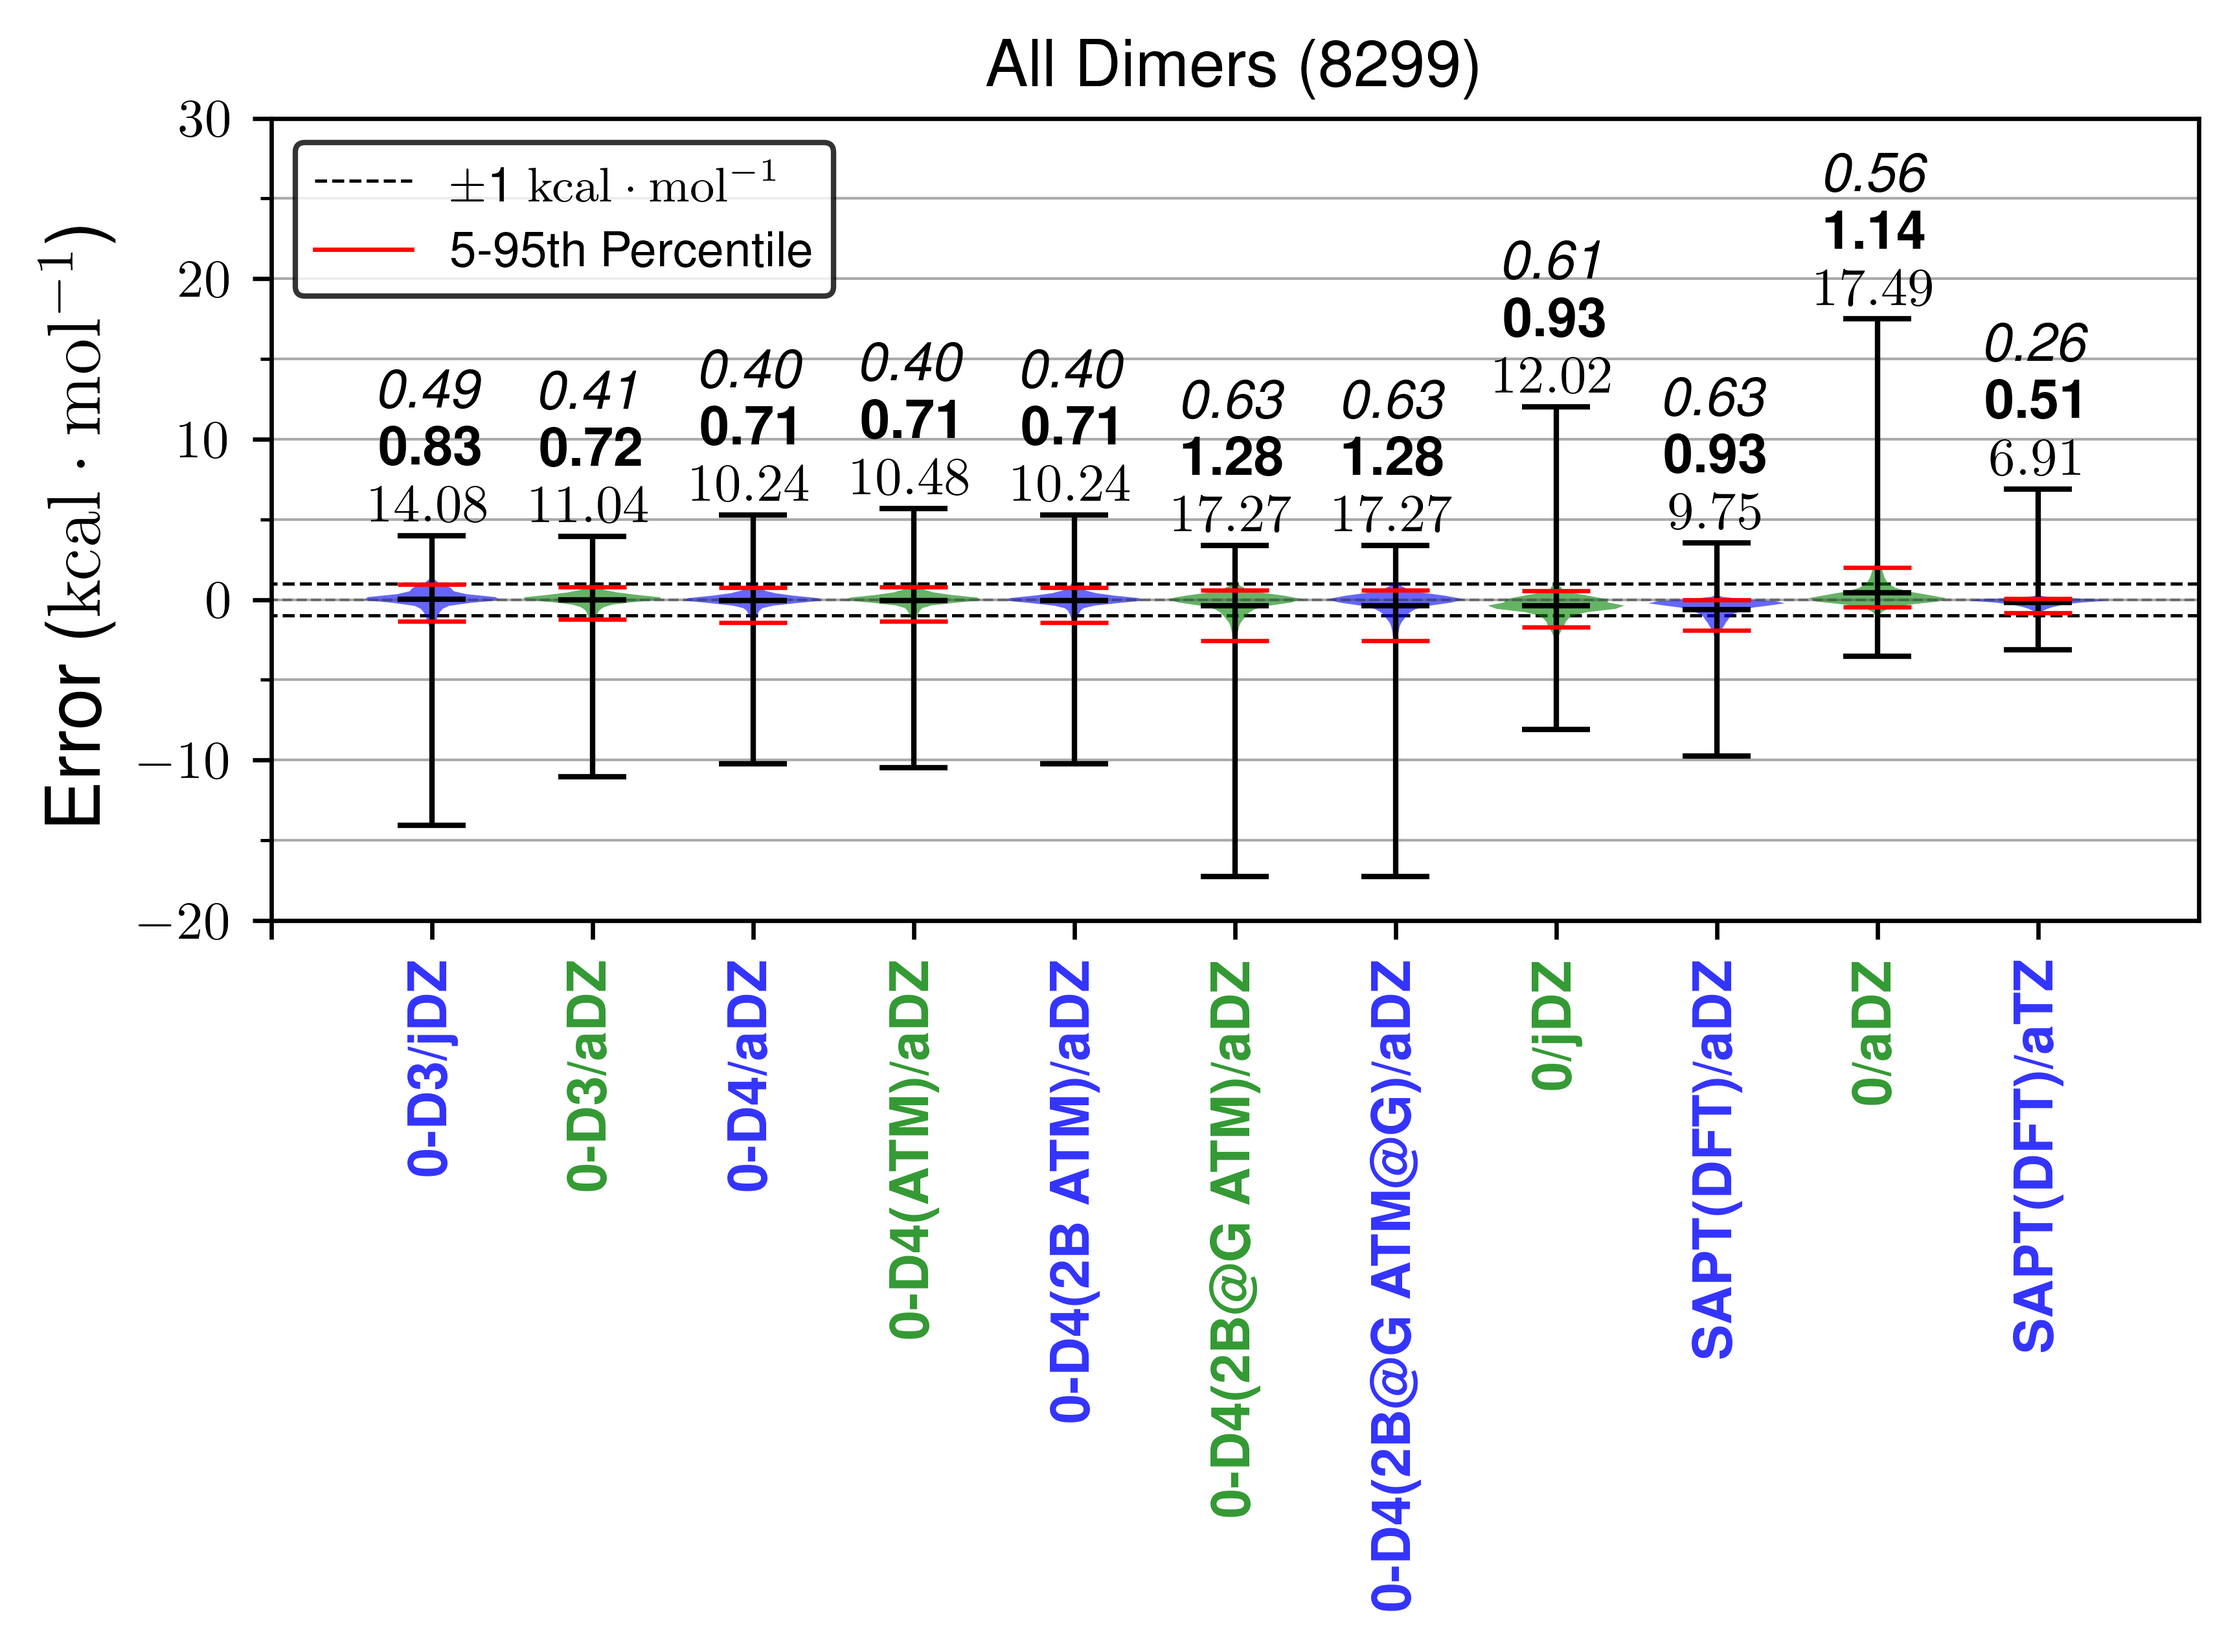
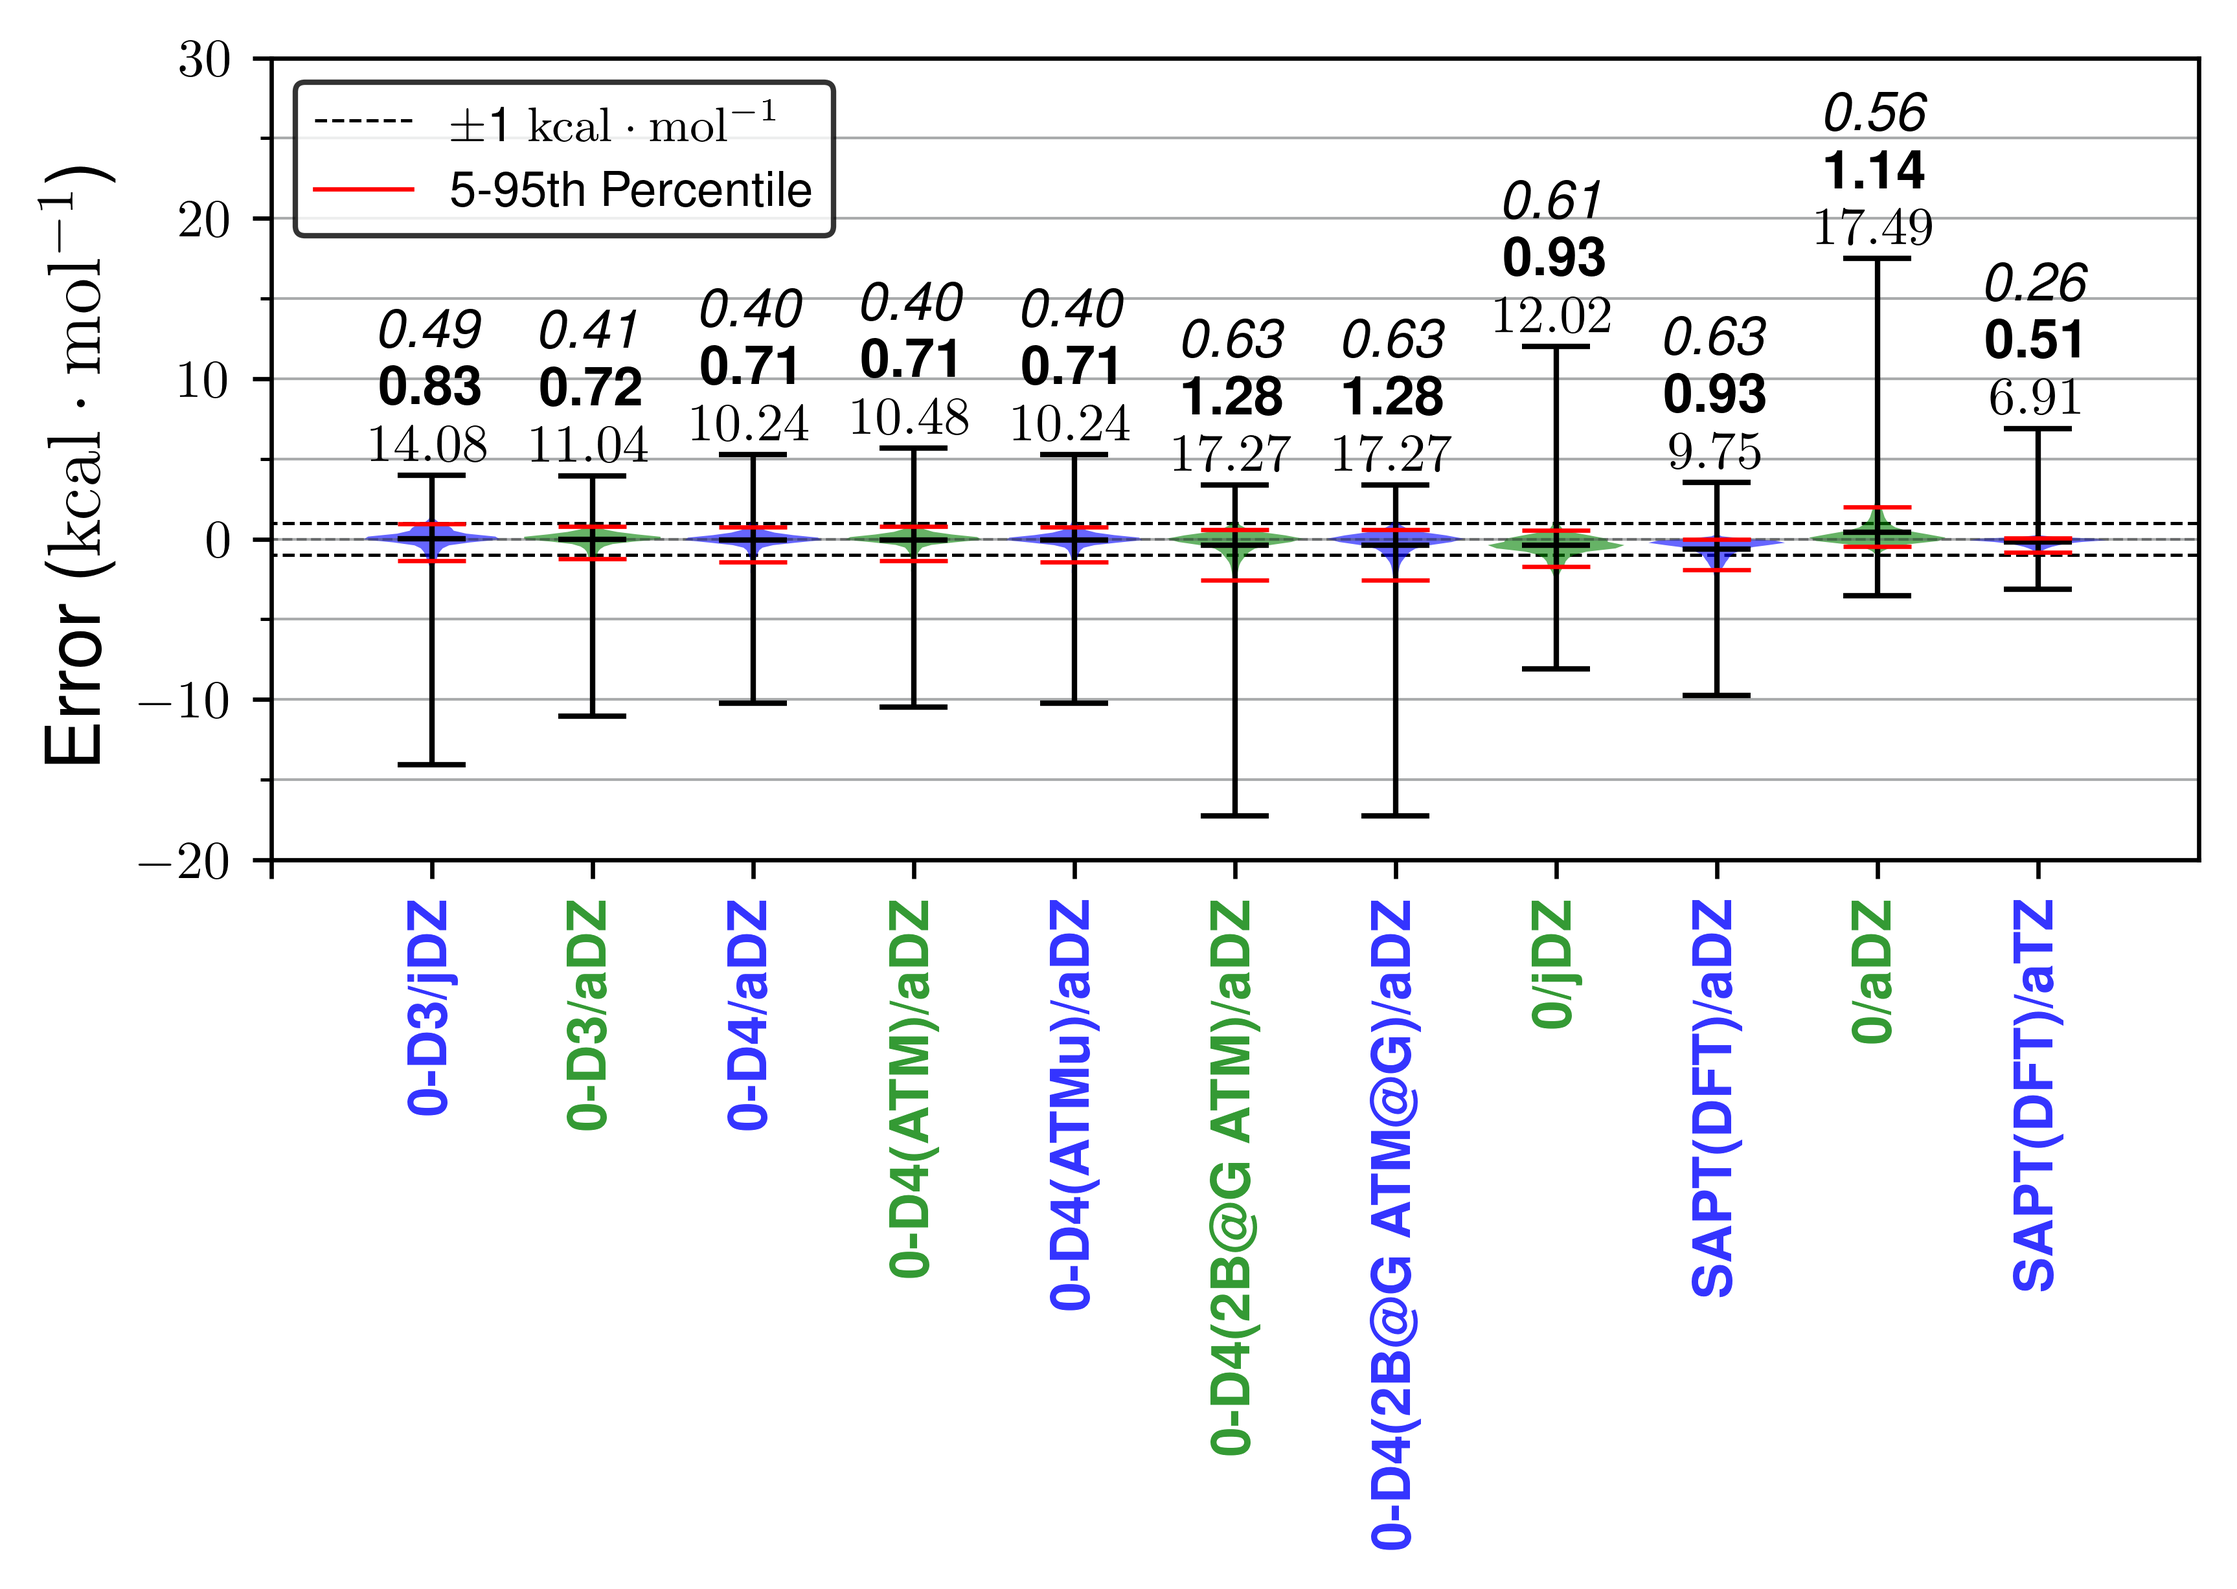
plotting updates

diff --git a/src/plotting.py b/src/plotting.py
@@ -719,20 +719,20 @@ def plotting_setup(
     selected = selected.split("/")[-1].split(".")[0]
     df_out = f"plots/{selected}.pkl"
     if build_df:
-        # df = compute_D3_D4_values_for_params_for_plotting(df, "adz", compute_d3)
-        # df = compute_D3_D4_values_for_params_for_plotting(df, "jdz", compute_d3)
-        # df = compute_d4_from_opt_params(df)
-        df = compute_d4_from_opt_params_TT(
-            df,
-            bases=[
-                [
-                    "SAPT0_adz_IE",
-                    "SAPT0_adz_3_IE_TT_ALL",
-                    "SAPT0_adz_3_IE_BJ_ATM_TT_5p_OUT",
-                    "SAPT0_adz_3_IE",
-                ],
-            ],
-        )
+        df = compute_D3_D4_values_for_params_for_plotting(df, "adz", compute_d3)
+        df = compute_D3_D4_values_for_params_for_plotting(df, "jdz", compute_d3)
+        df = compute_d4_from_opt_params(df)
+        # df = compute_d4_from_opt_params_TT(
+        #     df,
+        #     bases=[
+        #         [
+        #             "SAPT0_adz_IE",
+        #             "SAPT0_adz_3_IE_TT_ALL",
+        #             "SAPT0_adz_3_IE_BJ_ATM_TT_5p_OUT",
+        #             "SAPT0_adz_3_IE",
+        #         ],
+        #     ],
+        # )
 
         df["SAPT0-D4/aug-cc-pVDZ"] = df.apply(
             lambda row: row["SAPT0_adz_3_IE"] + row["-D4 (adz)"],
@@ -843,7 +843,7 @@ def plotting_setup(
                 "0-D4/aDZ": "SAPT0_adz_3_IE_d4_diff",
                 # "0-D4(ATM)/aDZ": "SAPT0_dz_3_IE_ATM_SHARED_d4_diff",
                 "0-D4(ATM)/aDZ": "SAPT0_adz_ATM_opt_all_diff",
-                "0-D4(2B ATM)/aDZ": "adz_diff_d4_ATM",
+                "0-D4(ATMu)/aDZ": "adz_diff_d4_ATM", # (2B ATM) renamed to (ATMu)
                 "0-D4(2B@G ATM)/aDZ": "adz_diff_d4_2B@ATM_G",
                 "0-D4(2B@G ATM@G)/aDZ": "adz_diff_d4_ATM_G",
                 # "0-D4(ATM TT ALL)/aDZ": "SAPT0_adz_3_IE_TT_ALL_d4_diff",
@@ -853,7 +853,7 @@ def plotting_setup(
                 # "SAPT(DFT)-D4/aDZ": "SAPT_DFT_adz_3_IE_d4_diff",
                 "SAPT(DFT)/aTZ": "SAPT_DFT_atz_3_IE_diff",
             },
-            f"All Dimers (8299)",
+            "",# f"All Dimers (8299)",
             f"{selected}_ATM",
             bottom=0.45,
             ylim=[-18, 26],
@@ -910,23 +910,30 @@ def plotting_setup(
             f"{selected}_basis_set",
         )
         # charged
+        assert df["SAPT_DFT_adz_3_IE_diff"].isnull().sum() == 0
+        assert df["SAPT_DFT_atz_3_IE_diff"].isnull().sum() == 0
         df_charged = get_charged_df(df)
+        # ensure that SAPT_DFT_atz_3_IE_diff does not have NaN values
+        pd.set_option("display.max_rows", None)
+        df_charged['SAPT_DFT_adz_t'] = df_charged['SAPT_DFT_adz'].apply(lambda x: x[0])
+        print(df_charged[["adz_diff_d4", "SAPT_DFT_adz_3_IE_diff", "SAPT0_adz_d4", "SAPT_DFT_adz_t"]])
+        assert df_charged["SAPT_DFT_adz_3_IE_diff"].isnull().sum() == 0
+        assert df_charged["SAPT_DFT_atz_3_IE_diff"].isnull().sum() == 0
         plot_violin_d3_d4_ALL(
             df_charged,
             {
                 "0-D3/jDZ": "jdz_diff_d3",
                 "0-D3/aDZ": "adz_diff_d3",
-                "0-D3MBJ(ATM)/jDZ": "jdz_diff_d3mbj_atm",
-                "0-D3MBJ(ATM)/aDZ": "adz_diff_d3mbj_atm",
-                "0-D4/jVDZ": "jdz_diff_d4",
+                # "0-D3MBJ(ATM)/jDZ": "jdz_diff_d3mbj_atm",
+                # "0-D3MBJ(ATM)/aDZ": "adz_diff_d3mbj_atm",
+                "0-D4/jDZ": "jdz_diff_d4",
                 "0-D4/aDZ": "adz_diff_d4",
-                # "0-D4(2B@G ATM)/jDZ": "jdz_diff_d4_2B@ATM_G",
-                # "0-D4(2B@G ATM)/aDZ": "adz_diff_d4_2B@ATM_G",
-                "0-D4(2B@G ATM@G)/jDZ": "jdz_diff_d4_ATM_G",
+                # "0-D4(2B@G ATM@G)/jDZ": "jdz_diff_d4_ATM_G",
                 "0-D4(2B@G ATM@G)/aDZ": "adz_diff_d4_ATM_G",
                 "0/jDZ": "SAPT0_jdz_3_IE_diff",
+                "SAPT(DFT)/aDZ": "SAPT_DFT_adz_3_IE_diff",
                 "0/aDZ": "SAPT0_adz_3_IE_diff",
-                "0-D4(ATM TT)/aDZ": "SAPT0_adz_3_IE_TT_OPT_d4_diff",
+                "SAPT(DFT)/aTZ": "SAPT_DFT_atz_3_IE_diff",
             },
             # f"Charged Dimers ({len(df_charged)})",
             None,

diff --git a/tests/test_2b.py b/tests/test_2b.py
@@ -23,6 +23,9 @@ data_pkl = "/theoryfs2/ds/amwalla3/projects/d4_corrections/tests/data/test.pkl"
 def water1():
     return src.water_data.water_data1()
 
+@pytest.fixture
+def water2():
+    return src.water_data.water_data2()
 
 @pytest.fixture
 def water1_undamped():

diff --git a/plot.py b/plot.py
@@ -19,7 +19,7 @@ def main():
     # )
     df = src.plotting.plotting_setup(
         (df, df_name),
-        True,
+        False,
     )
     return
     # return
